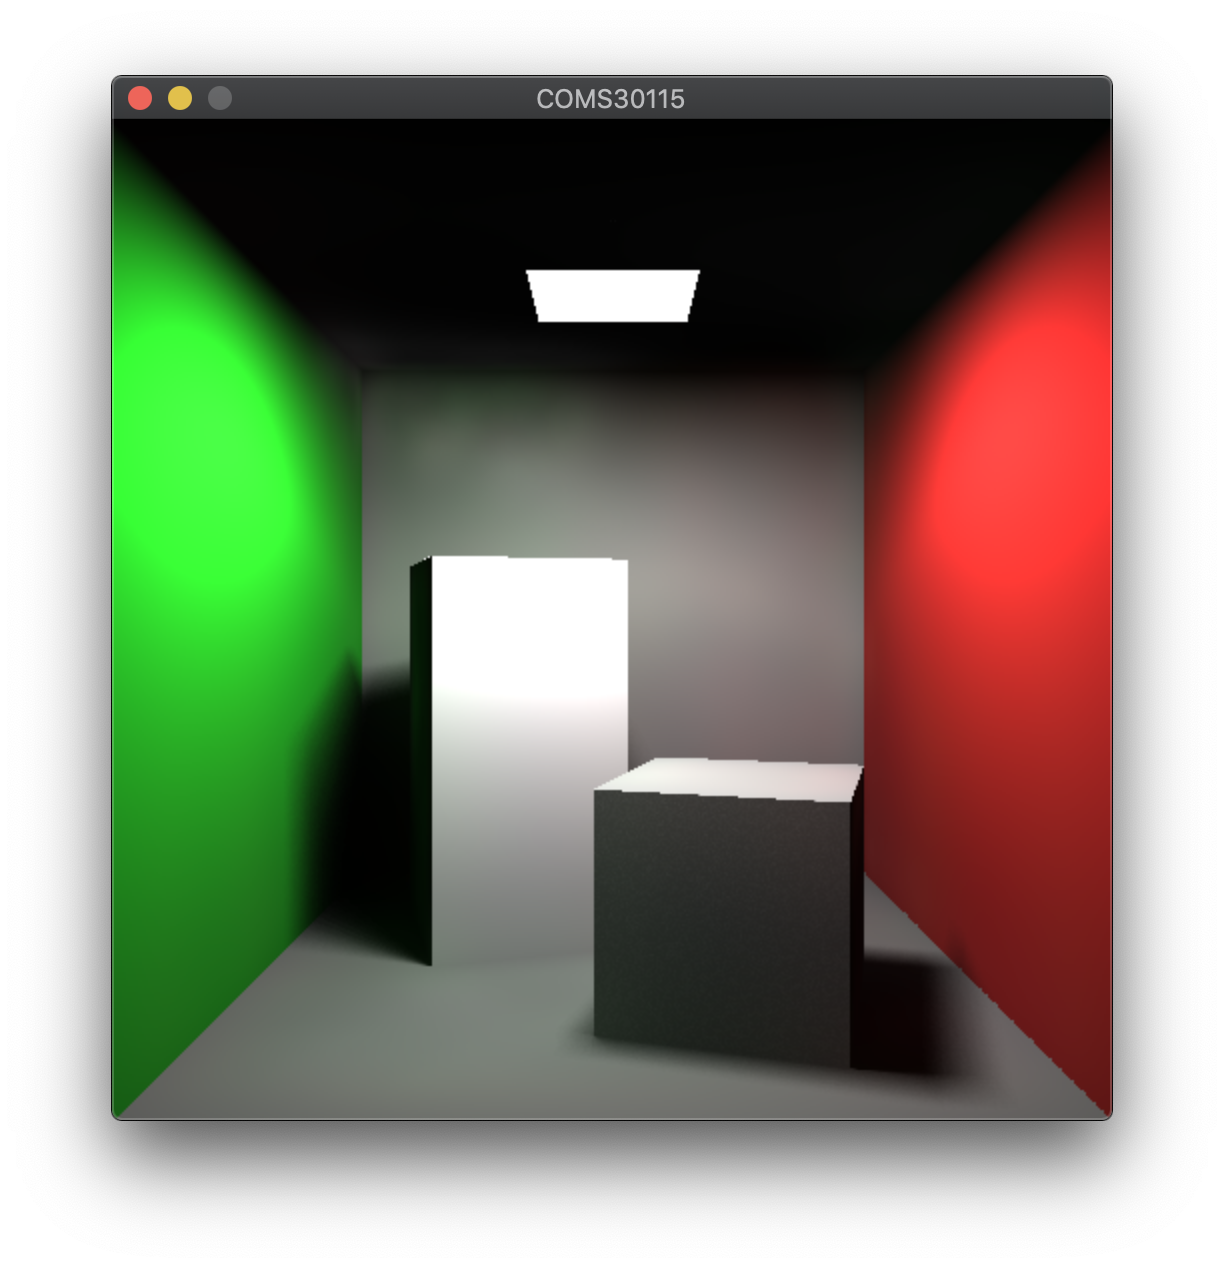
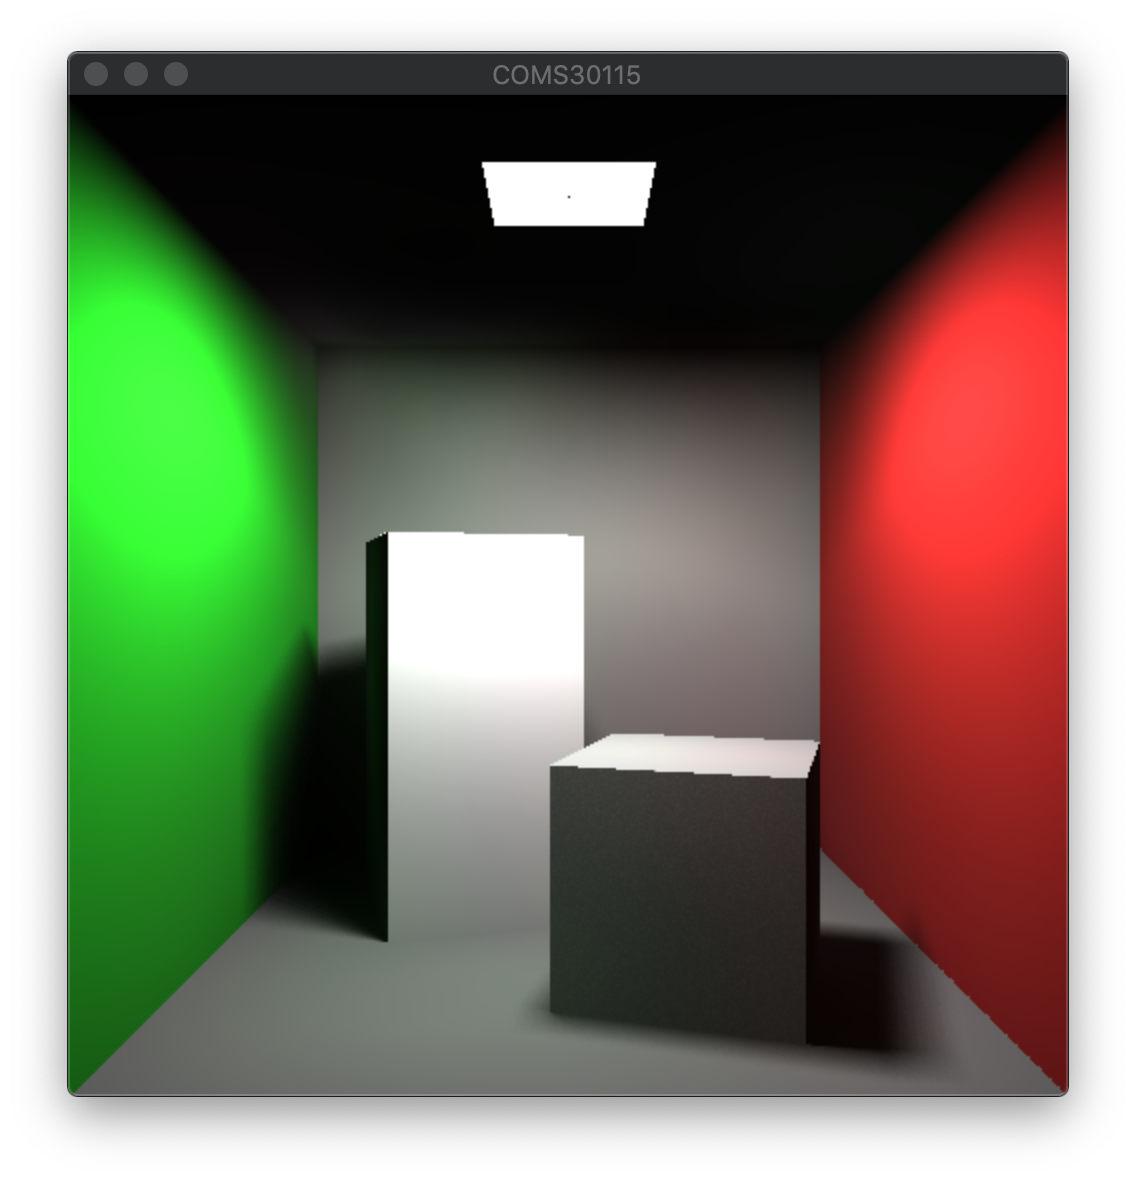
Fixed square ray intersection and removed old images

Changed region(s): [[0.0308, 0.0305, 0.9551, 0.9763], [0.4005, 0.122, 0.5854, 0.2746]]

diff --git a/raytracer/Source/skeleton.cpp b/raytracer/Source/skeleton.cpp
@@ -821,23 +821,36 @@ bool intersectSphere(Intersection& closestIntersection, vec3 start, vec3 dir, ve
 bool intersectSquare(Intersection& intersection, vec3 start, vec3 dir, vec3 position, vec3 normal, float width, float length) {
   bool intersectionFound = false;
 
-  vec3 corner(position.x - width/2, position.y, position.z - length/2);
-  float t = dot((normalize(corner) - normalize(start)), normalize(normal))
-            / dot(normalize(dir), normalize(normal));
+  vec3 p1(position.x - width/2, position.y, position.z - length/2);
+  vec3 p2(position.x - width/2, position.y, position.z + length/2);
+  vec3 p3(position.x + width/2, position.y, position.z + length/2);
+  vec3 p4(position.x + width/2, position.y, position.z - length/2);
+
+  float t = -(-start.y + position.y) / (-dir.y);
+  vec3 pos = start + t * dir;
+
+  vec3 v1 = normalize(p2 - p1);
+  vec3 v2 = normalize(p3 - p2);
+  vec3 v3 = normalize(p4 - p3);
+  vec3 v4 = normalize(p1 - p4);
+
+  vec3 v5 = normalize(pos - p1);
+  vec3 v6 = normalize(pos - p2);
+  vec3 v7 = normalize(pos - p3);
+  vec3 v8 = normalize(pos - p4);
+
+  if (dot(v1, v5) < 0.0f) return false;
+  if (dot(v2, v6) < 0.0f) return false;
+  if (dot(v3, v7) < 0.0f) return false;
+  if (dot(v4, v8) < 0.0f) return false;
+
+  float dist = distance(start, pos);
 
   if (t >= 0) {
-    vec3 pos = start + t * dir;
-
-    float dist = distance(start, pos);
-
-    vec3 v = pos - corner;
-
-    if (v.x >= 0 && v.x <= width && v.z >= 0 && v.z <= length) {
-      intersectionFound = true;
-      intersection.distance = dist;
-      intersection.position = pos;
-      intersection.direction = dir;
-    }
+    intersectionFound = true;
+    intersection.distance = dist;
+    intersection.position = pos;
+    intersection.direction = dir;
   }
 
   return intersectionFound;
